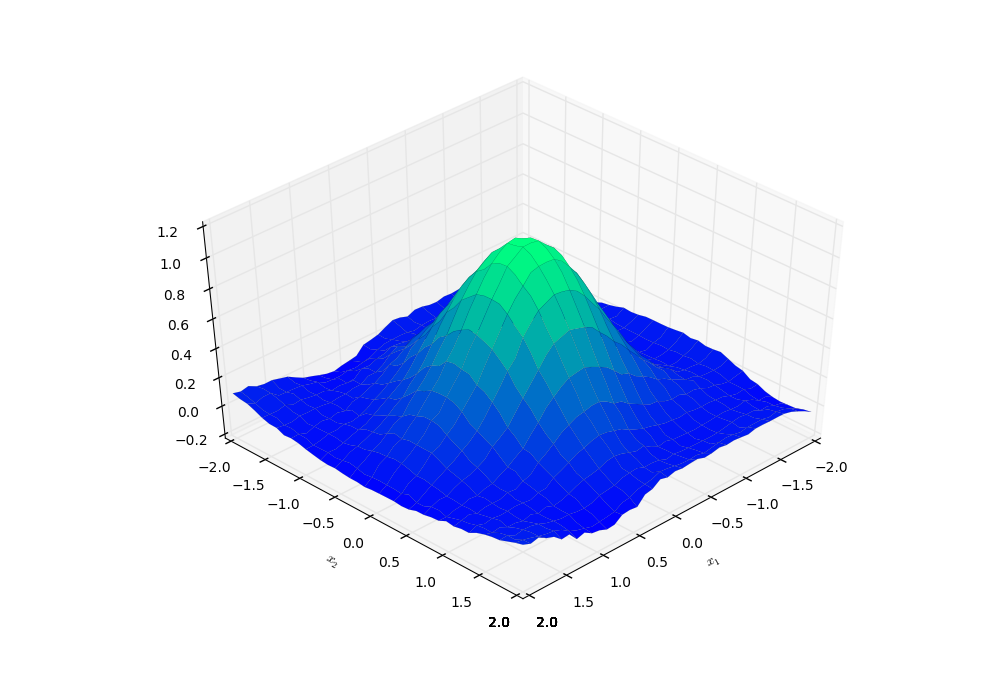
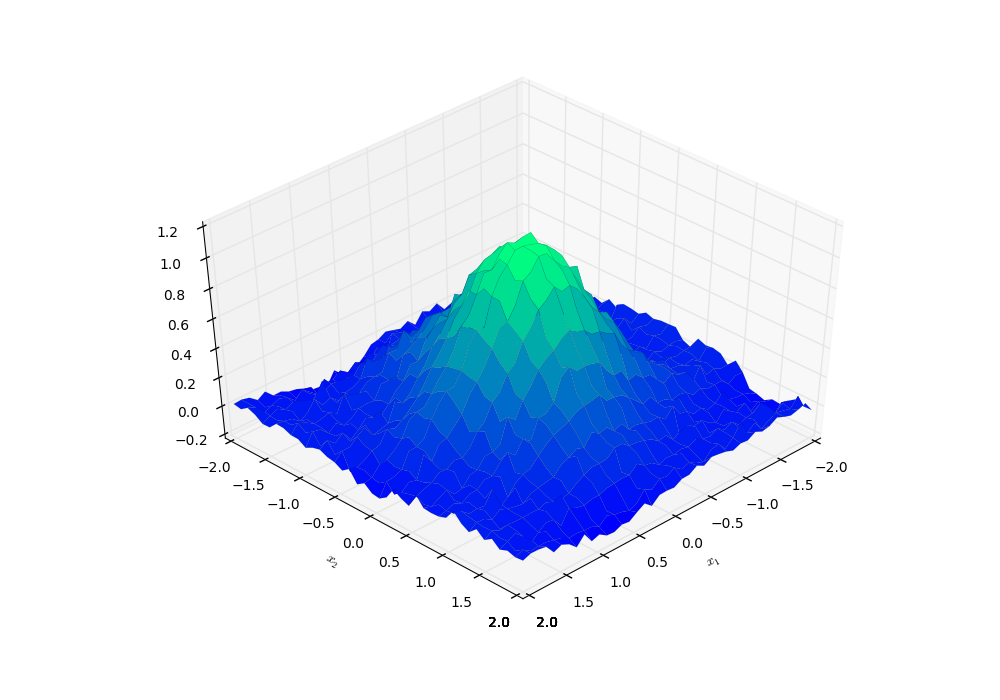
ex 2_4 plots

Changed region(s): [[0.217, 0.33, 0.806, 0.81]]

diff --git a/assignment-4/exercise2.py b/assignment-4/exercise2.py
@@ -149,7 +149,7 @@ def run_nn():
     for i in tqdm(range(500)):
         outputs = np.zeros(Y.shape)
         indices = range(len(X))
-        #random.shuffle(indices)
+        random.shuffle(indices)
         
         for n, index in enumerate(indices):
             x = X[index]
@@ -159,12 +159,15 @@ def run_nn():
             outputs[index] = out
             weights_1, weights_2 = backpropagation(weights_1, weights_2, activation, out, target=y, x=x, eta=0.1)
       
-        if i == 0:
-            plot_gaussian_given(x_grid, y_grid, outputs, "ex2_2", elev=45, azim=45)
-        if i == 1:
-            plot_gaussian_given(x_grid, y_grid, outputs, "ex2_2_1", elev=45, azim=45)
+        #if i == 0:
+        #    plot_gaussian_given(x_grid, y_grid, outputs, "ex2_2", elev=45, azim=45)
+        #if i == 1:
+        #    plot_gaussian_given(x_grid, y_grid, outputs, "ex2_2_1", elev=45, azim=45)
         if (i+1)%50 == 0:            
-            plot_gaussian_given(x_grid, y_grid, outputs, "ex2_3_"+str(i+1), elev=45, azim=45)
+            plot_gaussian_given(x_grid, y_grid, outputs, "ex2_4_"+str(i+1), elev=45, azim=45)
+            
+        if (i+1)%10 == 0 and i < 101:
+            plot_gaussian_given(x_grid, y_grid, outputs, "ex2_4_"+str(i+1), elev=45, azim=45)
 
 def run_nn_6():
     data = np.loadtxt('a017_NNpdfGaussMix.txt')
